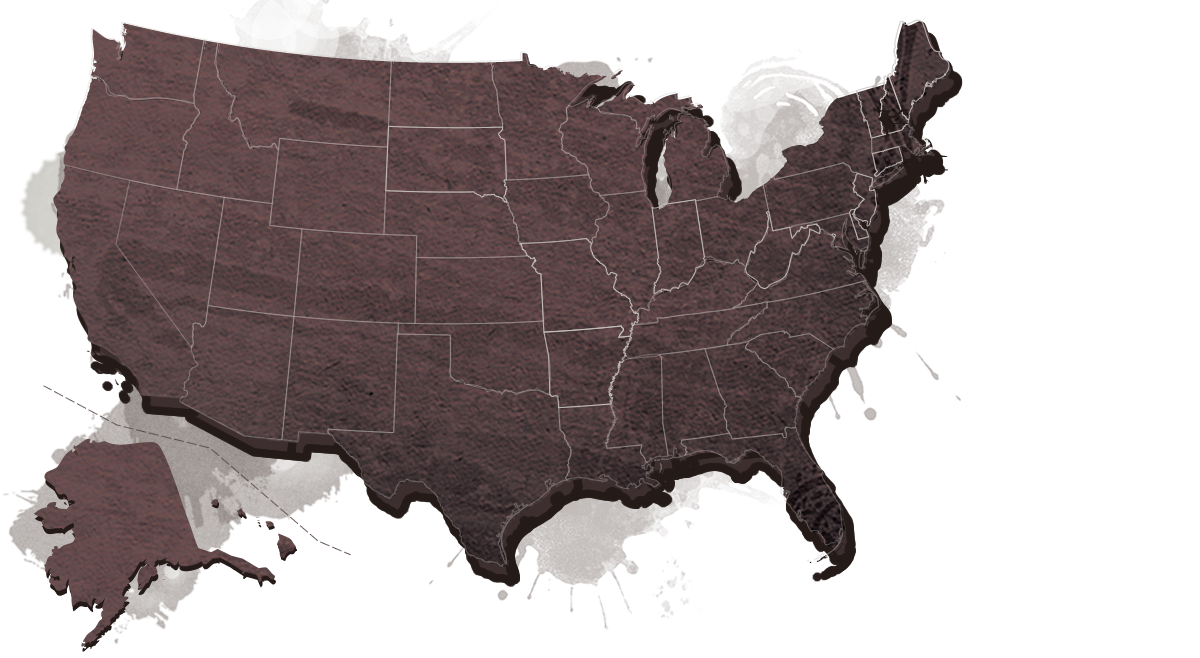
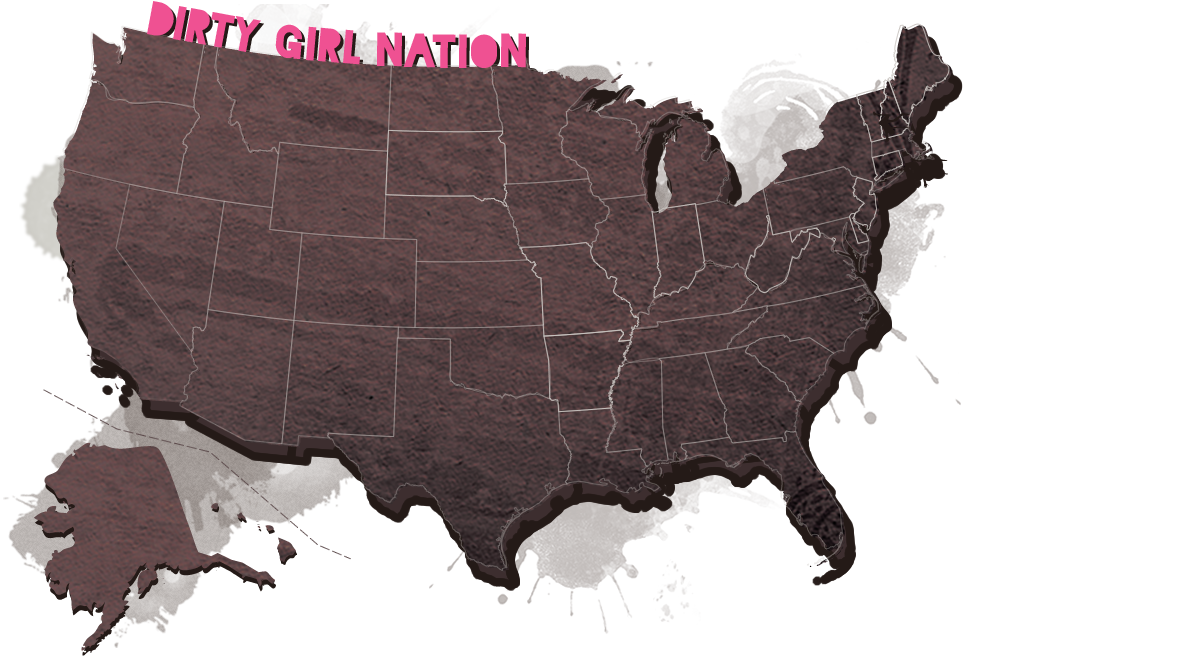
new map- pfixed re-direct on update address

diff --git a/src/DirtyGirl.Web/Content/Style.css b/src/DirtyGirl.Web/Content/Style.css
@@ -133,7 +133,7 @@ div.overlay,#overlay { position: fixed; top: 0; left:0; background:#000000; widt
 /*REGISTRATION LANDING*/
 #registration {position: relative; margin: 0 0 20px;}
 #registration_map { position: relative;}
-.registration_map_content {position: relative; background:url("../images/img_map.png") 0 0 no-repeat transparent; height: 658px; width: 1200px; z-index:2;}
+.registration_map_content {position: relative; background:url("../images/img_map.png") 0 0 no-repeat transparent; height: 665px; width: 1200px; z-index:2;}
 .registration_map_copy {background: url("../images/bg_map_copy.png") no-repeat scroll 0 0 transparent;  height: 233px; position: absolute; right: 10px; top: 155px; width: 398px;  z-index: 1;}
 .registration_map_copy_content {float: right; padding: 25px 10px 10px; position: relative;  width: 236px;}
 .registration_map_copy_content h3 { font-size: 16px; color:#ee5192; margin-bottom: 10px; line-height: 18px;}
